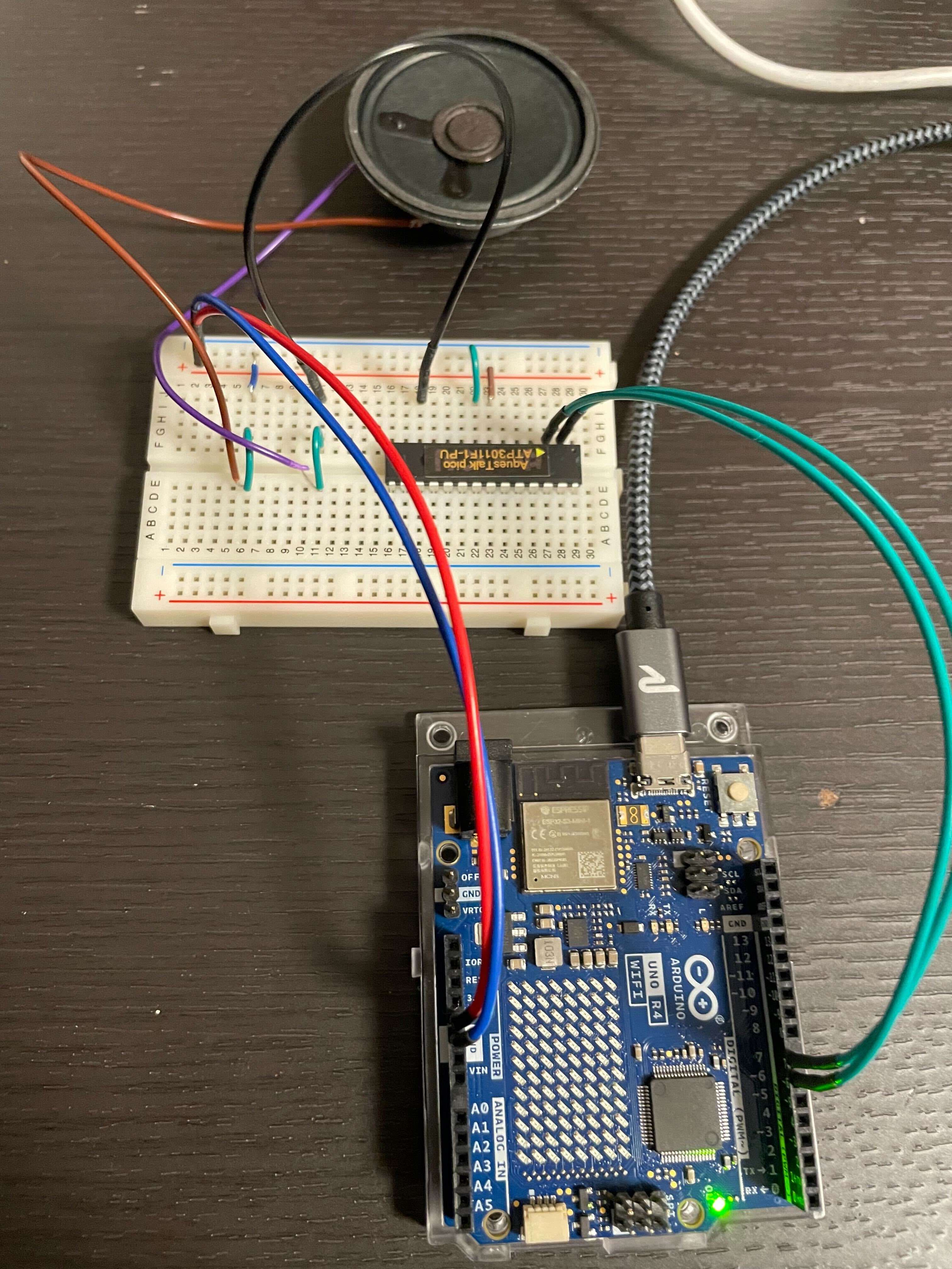
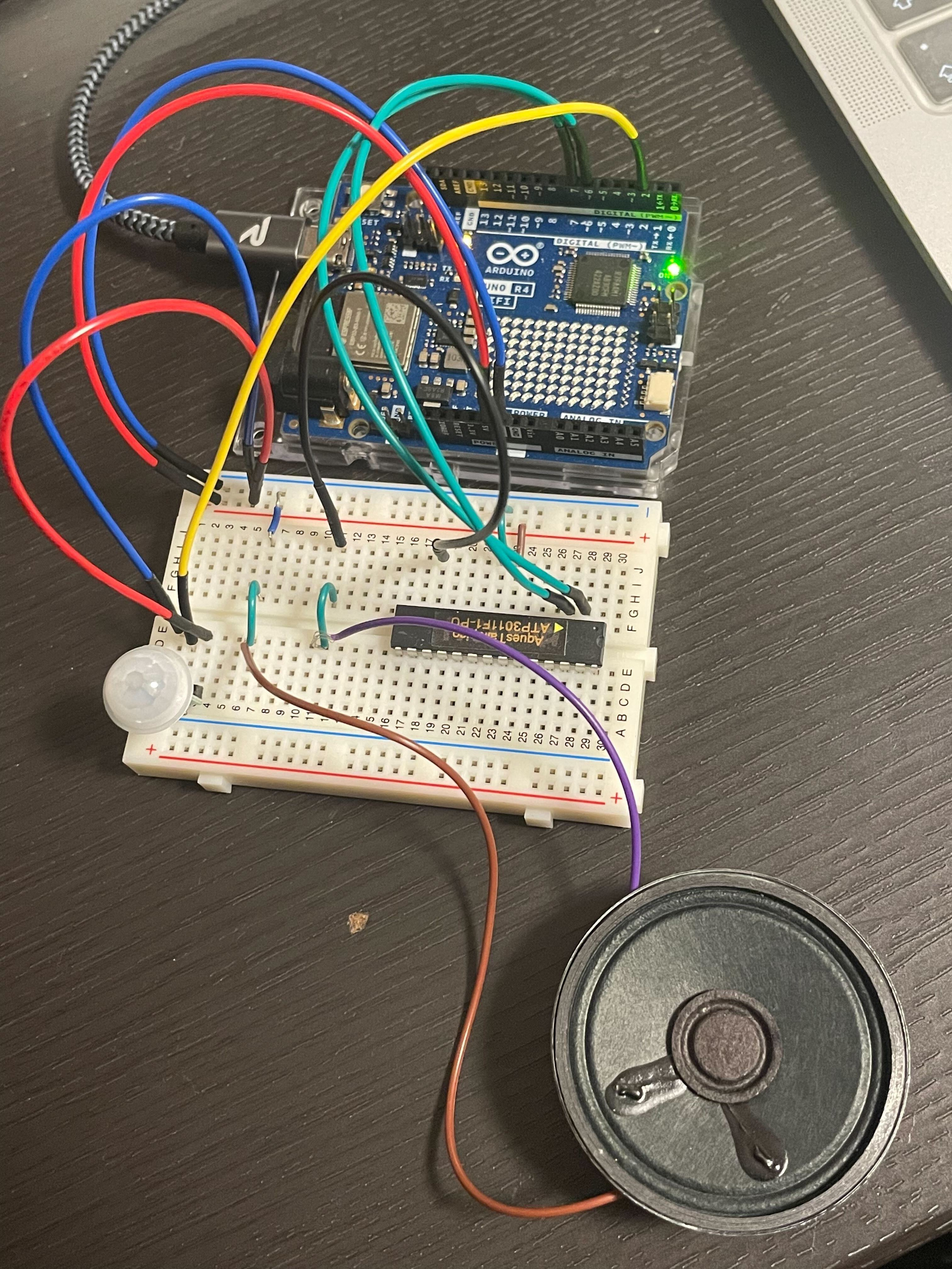
センサーで感知して天気情報を取得する

diff --git a/otenki/README.md b/otenki/README.md
@@ -5,6 +5,7 @@
 - Arduino UNO R4 WiFi
 - [ダイナミックスピーカー 50mmΦ 8Ω 0.4W](https://akizukidenshi.com/catalog/g/g109013/)
 - [音声合成LSI ATP3011F1-PU(ゆっくりな女性の音声)](https://akizukidenshi.com/catalog/g/g106220/)
+- [ミニPIRモーションセンサ](https://www.switch-science.com/products/7028)
 
 ## 天気情報API
 - Open-Meteo JMA API
